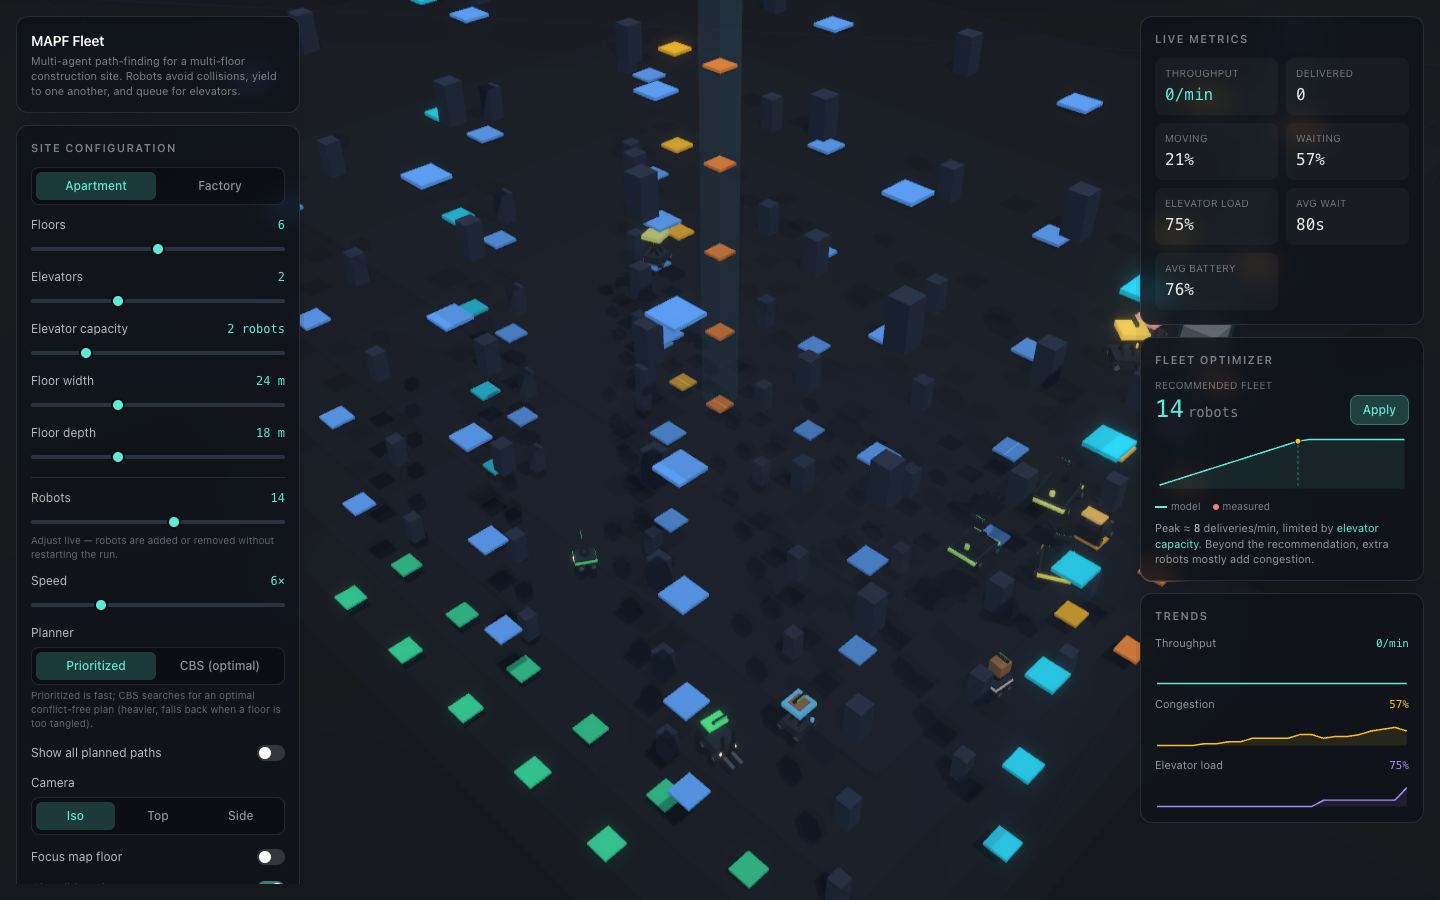
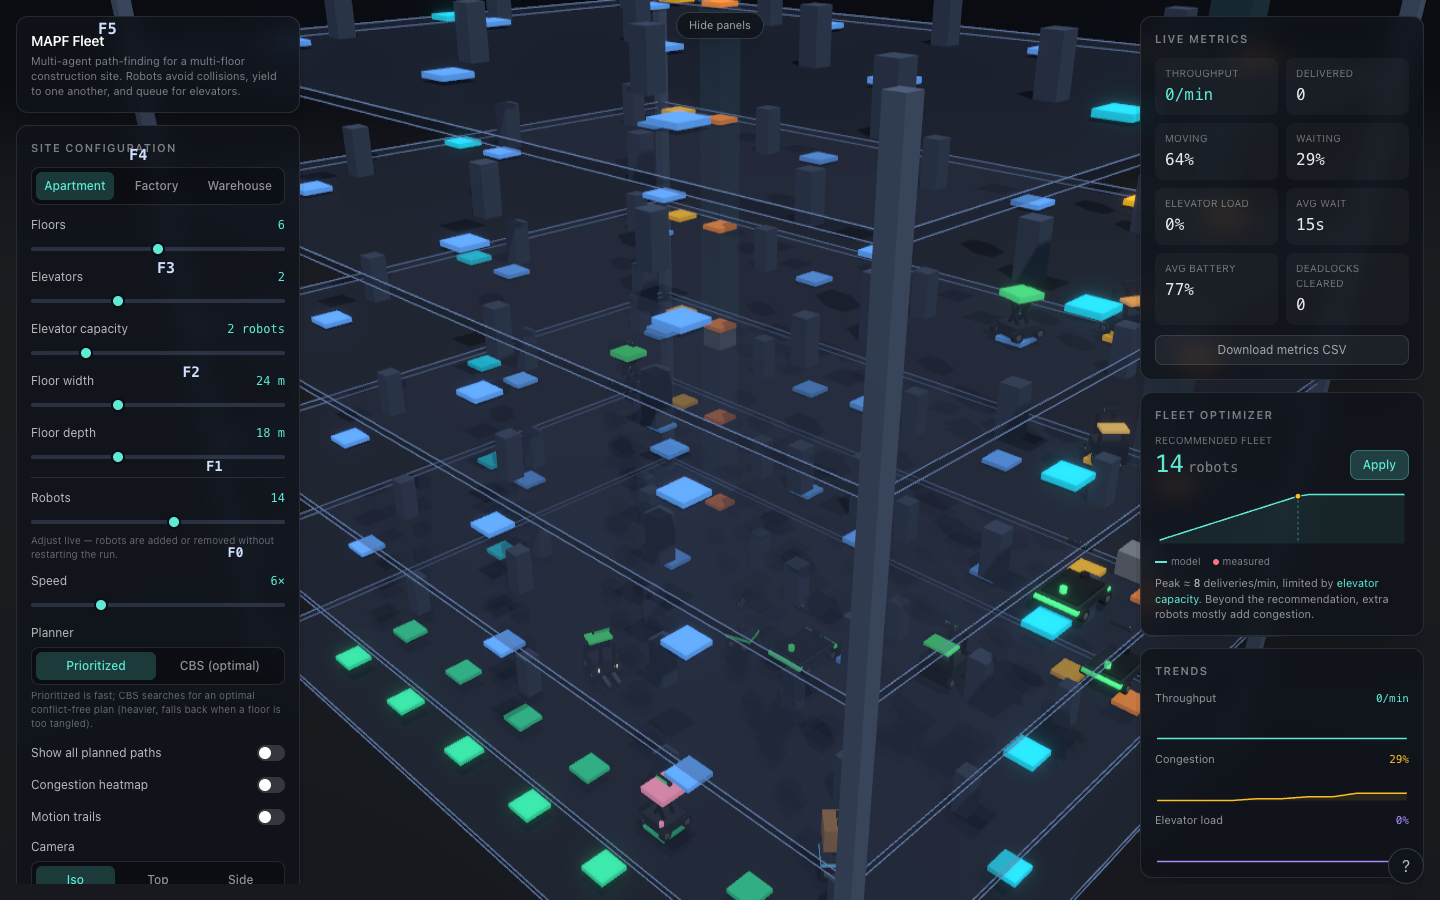
Redesign building so floors read clearly as a stacked structure
The translucent decks were nearly invisible, so the building looked like
floating tiles. Now each floor is a semi-opaque deck with a bright
outlined edge (countable, still see-through to lower floors), tied
together by a steel frame of full-height corner columns; floor-number
labels run up the side. Robots are larger with a chunky lit crate when
carrying, structural columns are taller, and the default isometric camera
is more side-on so a tall floor stack separates instead of overlapping.
Refresh preview/OG image.

diff --git a/src/three/Building.tsx b/src/three/Building.tsx
@@ -1,16 +1,19 @@
 'use client';
 
 /**
- * Static building geometry: floor slabs, structural columns / machine blocks,
- * pickup / dropoff / charger stations, and elevator boarding/exit pads.
+ * Building geometry, designed to read clearly as a stack of distinct floors:
  *
- * Geometry is derived once from the immutable `world` (memoized) and rendered
- * per floor, so single-floor "focus" mode can isolate one level by hiding the
- * others. Repeated elements use instanced meshes to stay cheap to draw.
+ *  - each floor is a semi-opaque deck with a bright outlined edge, so levels are
+ *    obvious and countable while you can still see through to the floors below;
+ *  - a steel frame (corner columns + per-floor edge beams) ties the levels into
+ *    one structure — a construction-site skeleton;
+ *  - floor-number labels run up the side;
+ *  - stations, charger pads, elevator pads and structural columns sit on each
+ *    deck (instanced), and single-floor "focus" hides the other levels.
  */
 
 import { useMemo } from 'react';
-import { Instance, Instances } from '@react-three/drei';
+import { Edges, Html, Instance, Instances } from '@react-three/drei';
 import { useSim } from '@/state/store';
 import { Cell, World } from '@/sim/types';
 import { CELL, COLORS, FLOOR_GAP, floorHeight, toScene } from './constants';
@@ -31,7 +34,12 @@ export function Building({ world }: { world: World }) {
   const floors = useMemo(() => buildGeometry(world), [world]);
   const focusFloor = useSim((s) => s.focusFloor);
   const viewFloor = useSim((s) => s.viewFloor);
-  const totalHeight = floorHeight(world.numFloors - 1);
+
+  const W = world.width * CELL;
+  const D = world.height * CELL;
+  const top = floorHeight(world.numFloors - 1);
+  const labelX = -W / 2 - 1.4;
+  const labelZ = D / 2;
 
   return (
     <group>
@@ -41,34 +49,70 @@ export function Building({ world }: { world: World }) {
         <meshStandardMaterial color={COLORS.ground} roughness={1} />
       </mesh>
 
+      {/* Full-height corner columns — the building frame. */}
+      {([
+        [-W / 2, -D / 2],
+        [W / 2, -D / 2],
+        [-W / 2, D / 2],
+        [W / 2, D / 2],
+      ] as Array<[number, number]>).map(([x, z], i) => (
+        <mesh key={i} position={[x, top / 2 - 0.2, z]}>
+          <boxGeometry args={[0.35, top + FLOOR_GAP, 0.35]} />
+          <meshStandardMaterial color={COLORS.beam} metalness={0.5} roughness={0.5} />
+        </mesh>
+      ))}
+
       {floors.map((f) => {
         const focused = !focusFloor || f.floor === viewFloor;
-        const slabOpacity = focusFloor ? (f.floor === viewFloor ? 0.22 : 0.04) : 0.16;
+        const y = floorHeight(f.floor);
+        const deckOpacity = focusFloor ? (f.floor === viewFloor ? 0.7 : 0.05) : 0.4;
         return (
           <group key={f.floor}>
-            {/* Floor slab (always drawn for context; faded when not focused). */}
-            <mesh position={[0, floorHeight(f.floor) - 0.18, 0]} receiveShadow>
-              <boxGeometry args={[world.width * CELL, 0.12, world.height * CELL]} />
-              <meshStandardMaterial color={COLORS.slab} transparent opacity={slabOpacity} roughness={0.9} />
+            {/* Deck: a clear platform with a bright outlined edge. */}
+            <mesh position={[0, y - 0.2, 0]} receiveShadow>
+              <boxGeometry args={[W, 0.18, D]} />
+              <meshStandardMaterial
+                color={COLORS.slab}
+                transparent
+                opacity={deckOpacity}
+                roughness={0.85}
+              />
+              <Edges color={COLORS.slabEdge} />
             </mesh>
 
+            {/* Floor number, running up the side. */}
+            <Html
+              position={[labelX, y + 0.1, labelZ]}
+              center
+              distanceFactor={world.numFloors * FLOOR_GAP * 0.9}
+              zIndexRange={[10, 0]}
+            >
+              <div
+                style={{
+                  color: focused ? '#cfe0ff' : '#56688c',
+                  fontFamily: 'var(--font-mono)',
+                  fontSize: 22,
+                  fontWeight: 600,
+                  pointerEvents: 'none',
+                  userSelect: 'none',
+                  whiteSpace: 'nowrap',
+                }}
+              >
+                F{f.floor}
+              </div>
+            </Html>
+
             <group visible={focused}>
-              <InstanceGroup positions={f.structures} args={[0.42, 0.9, 0.42]} color={COLORS.column} />
-              <InstanceGroup positions={f.pickups} args={[0.7, 0.07, 0.7]} color={COLORS.pickup} emissive />
-              <InstanceGroup positions={f.dropoffs} args={[0.7, 0.07, 0.7]} color={COLORS.dropoff} emissive />
-              <InstanceGroup positions={f.chargers} args={[0.7, 0.09, 0.7]} color={COLORS.charger} emissive />
-              <InstanceGroup positions={f.boardPads} args={[0.74, 0.09, 0.74]} color={COLORS.boardPad} emissive />
-              <InstanceGroup positions={f.exitPads} args={[0.74, 0.09, 0.74]} color={COLORS.exitPad} emissive />
+              <InstanceGroup positions={f.structures} args={[0.5, 1.3, 0.5]} color={COLORS.column} />
+              <InstanceGroup positions={f.pickups} args={[0.78, 0.12, 0.78]} color={COLORS.pickup} emissive />
+              <InstanceGroup positions={f.dropoffs} args={[0.78, 0.12, 0.78]} color={COLORS.dropoff} emissive />
+              <InstanceGroup positions={f.chargers} args={[0.78, 0.14, 0.78]} color={COLORS.charger} emissive />
+              <InstanceGroup positions={f.boardPads} args={[0.82, 0.14, 0.82]} color={COLORS.boardPad} emissive />
+              <InstanceGroup positions={f.exitPads} args={[0.82, 0.14, 0.82]} color={COLORS.exitPad} emissive />
             </group>
           </group>
         );
       })}
-
-      {/* Faint outer frame so the tower reads as one structure. */}
-      <mesh position={[0, totalHeight / 2, 0]}>
-        <boxGeometry args={[world.width * CELL + 0.4, totalHeight + FLOOR_GAP, world.height * CELL + 0.4]} />
-        <meshStandardMaterial color={COLORS.slabEdge} transparent opacity={0.04} wireframe />
-      </mesh>
     </group>
   );
 }
@@ -90,10 +134,10 @@ function InstanceGroup({
       <boxGeometry args={args} />
       <meshStandardMaterial
         color={color}
-        roughness={0.7}
-        metalness={0.1}
+        roughness={0.6}
+        metalness={0.15}
         emissive={emissive ? color : '#000000'}
-        emissiveIntensity={emissive ? 0.22 : 0}
+        emissiveIntensity={emissive ? 0.4 : 0}
       />
       {positions.map((p, i) => (
         <Instance key={i} position={p} />
@@ -130,14 +174,14 @@ function buildGeometry(world: World): FloorGeometry[] {
       for (let x = 0; x < width; x++) {
         if (g.cells[y * width + x] !== Cell.Wall) continue;
         if (shaft.has(`${x}|${y}`)) continue;
-        f.structures.push(toScene(x, y, floorHeight(g.floor) + 0.35, width, height));
+        f.structures.push(toScene(x, y, floorHeight(g.floor) + 0.55, width, height));
       }
     }
   }
 
   for (const s of world.stations) {
     const f = byFloor.get(s.floor)!;
-    const pos = toScene(s.x, s.y, floorHeight(s.floor) + 0.02, width, height);
+    const pos = toScene(s.x, s.y, floorHeight(s.floor) + 0.04, width, height);
     if (s.role === 'pickup') f.pickups.push(pos);
     else if (s.role === 'dropoff') f.dropoffs.push(pos);
     else f.chargers.push(pos);
@@ -146,8 +190,8 @@ function buildGeometry(world: World): FloorGeometry[] {
   for (const e of world.elevators) {
     for (const g of world.floors) {
       const f = byFloor.get(g.floor)!;
-      f.boardPads.push(toScene(e.inCell.x, e.inCell.y, floorHeight(g.floor) + 0.04, width, height));
-      f.exitPads.push(toScene(e.outCell.x, e.outCell.y, floorHeight(g.floor) + 0.04, width, height));
+      f.boardPads.push(toScene(e.inCell.x, e.inCell.y, floorHeight(g.floor) + 0.05, width, height));
+      f.exitPads.push(toScene(e.outCell.x, e.outCell.y, floorHeight(g.floor) + 0.05, width, height));
     }
   }
 

diff --git a/src/three/Fleet.tsx b/src/three/Fleet.tsx
@@ -151,11 +151,12 @@ const RobotMesh = memo(function RobotMesh({ id, kind }: { id: number; kind: Robo
         <ringGeometry args={[0.55, 0.72, 28]} />
         <meshBasicMaterial color="#5eead4" transparent opacity={0.85} side={THREE.DoubleSide} />
       </mesh>
-      <group scale={1.35}>
+      <group scale={1.6}>
         <RobotBody kind={kind} accent={accent} />
-        <mesh ref={crate} position={[0, 0.66, 0]} visible={false} castShadow>
-          <boxGeometry args={[0.32, 0.28, 0.32]} />
-          <meshStandardMaterial color={CRATE} roughness={0.85} />
+        {/* Carried material: a chunky, lit crate so "carrying" is unmistakable. */}
+        <mesh ref={crate} position={[0, 0.72, 0]} visible={false} castShadow>
+          <boxGeometry args={[0.46, 0.4, 0.46]} />
+          <meshStandardMaterial color={CRATE} emissive={CRATE} emissiveIntensity={0.25} roughness={0.7} />
         </mesh>
         {/* Battery indicator floating above the robot. */}
         <mesh position={[0, 0.92, 0]}>

diff --git a/src/three/constants.ts b/src/three/constants.ts
@@ -11,7 +11,7 @@ import { RobotSnapshot } from '@/sim/types';
 /** Size of one grid cell in 3D world units. */
 export const CELL = 1;
 /** Vertical distance between successive floor planes. */
-export const FLOOR_GAP = 3.2;
+export const FLOOR_GAP = 3.6;
 /** Small lift so robot wheels sit just above the floor slab surface. */
 export const ROBOT_Y = 0.1;
 
@@ -33,9 +33,10 @@ export function floorHeight(floor: number): number {
 
 /** Palette for the building structure. */
 export const COLORS = {
-  slab: '#1b2435',
-  slabEdge: '#3a4a66',
-  column: '#313e56',
+  slab: '#27324a',
+  slabEdge: '#6b86b8',
+  beam: '#7d93b8',
+  column: '#4a5a76',
   machine: '#3b485f',
   shaft: '#7dd3fc',
   car: '#e2e8f0',

diff --git a/src/three/Scene.tsx b/src/three/Scene.tsx
@@ -33,7 +33,7 @@ export default function Scene() {
       shadows
       dpr={[1, 2]}
       gl={{ antialias: true }}
-      camera={{ position: [span * 0.72, top + span * 0.42, span * 0.72], fov: 42 }}
+      camera={{ position: [span * 0.85, top * 0.55 + span * 0.5, span * 0.85], fov: 42 }}
       onPointerMissed={() => useSim.getState().setSelected(null)}
     >
       <color attach="background" args={['#0a0c12']} />
@@ -111,8 +111,9 @@ function CameraRig({ world }: { world: World }) {
       pos = [0, top * 0.55, span * 1.35];
       target = [0, top * 0.4, 0];
     } else {
-      pos = [span * 0.72, top + span * 0.42, span * 0.72];
-      target = [0, top * 0.4, 0];
+      // Side-on isometric so a tall floor stack separates clearly.
+      pos = [span * 0.85, top * 0.55 + span * 0.5, span * 0.85];
+      target = [0, top * 0.42, 0];
     }
 
     camera.position.set(...pos);